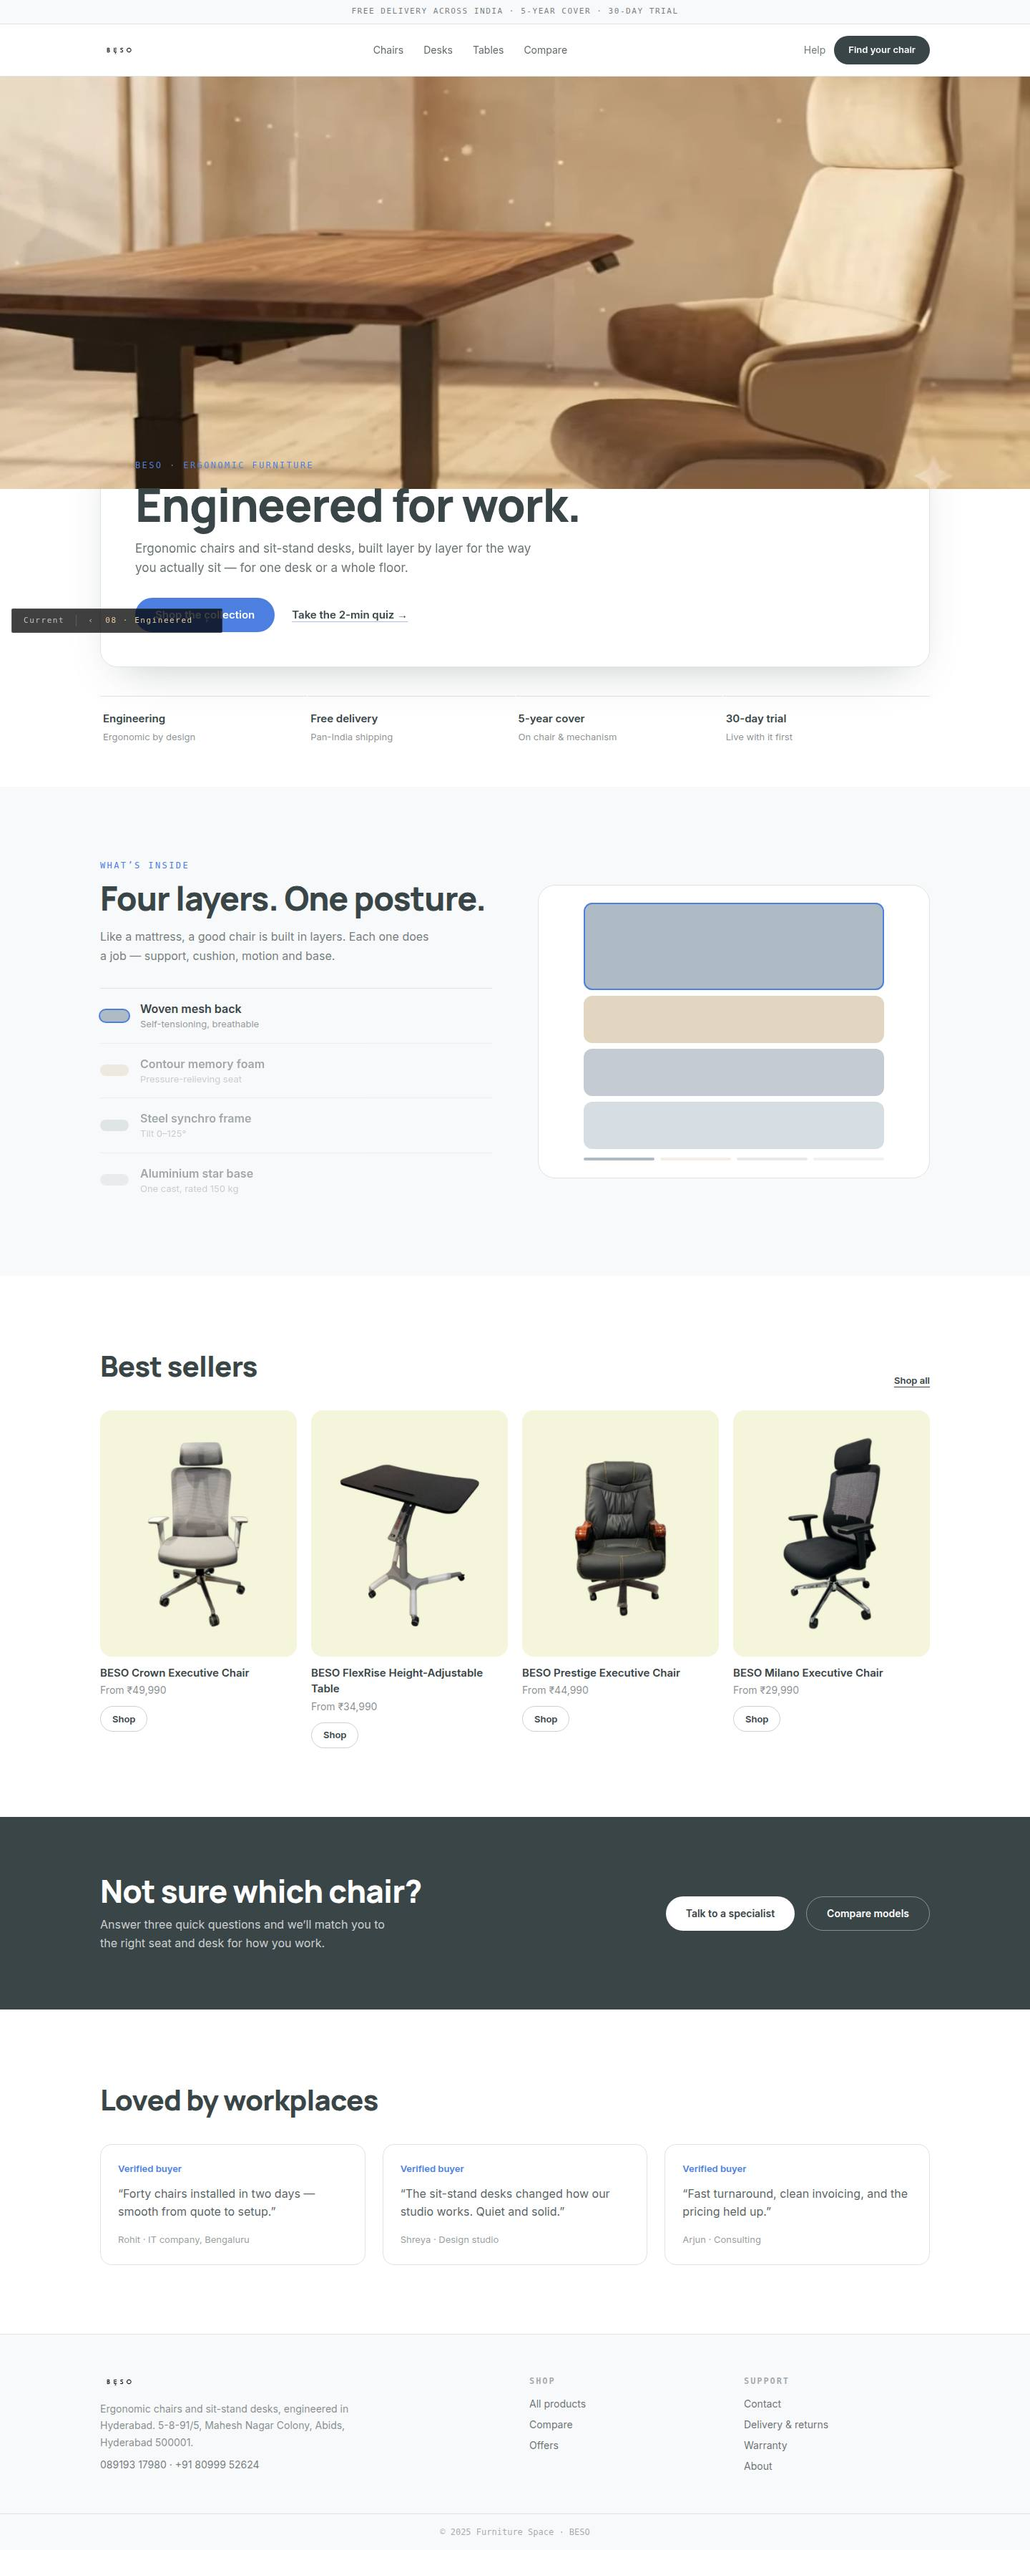
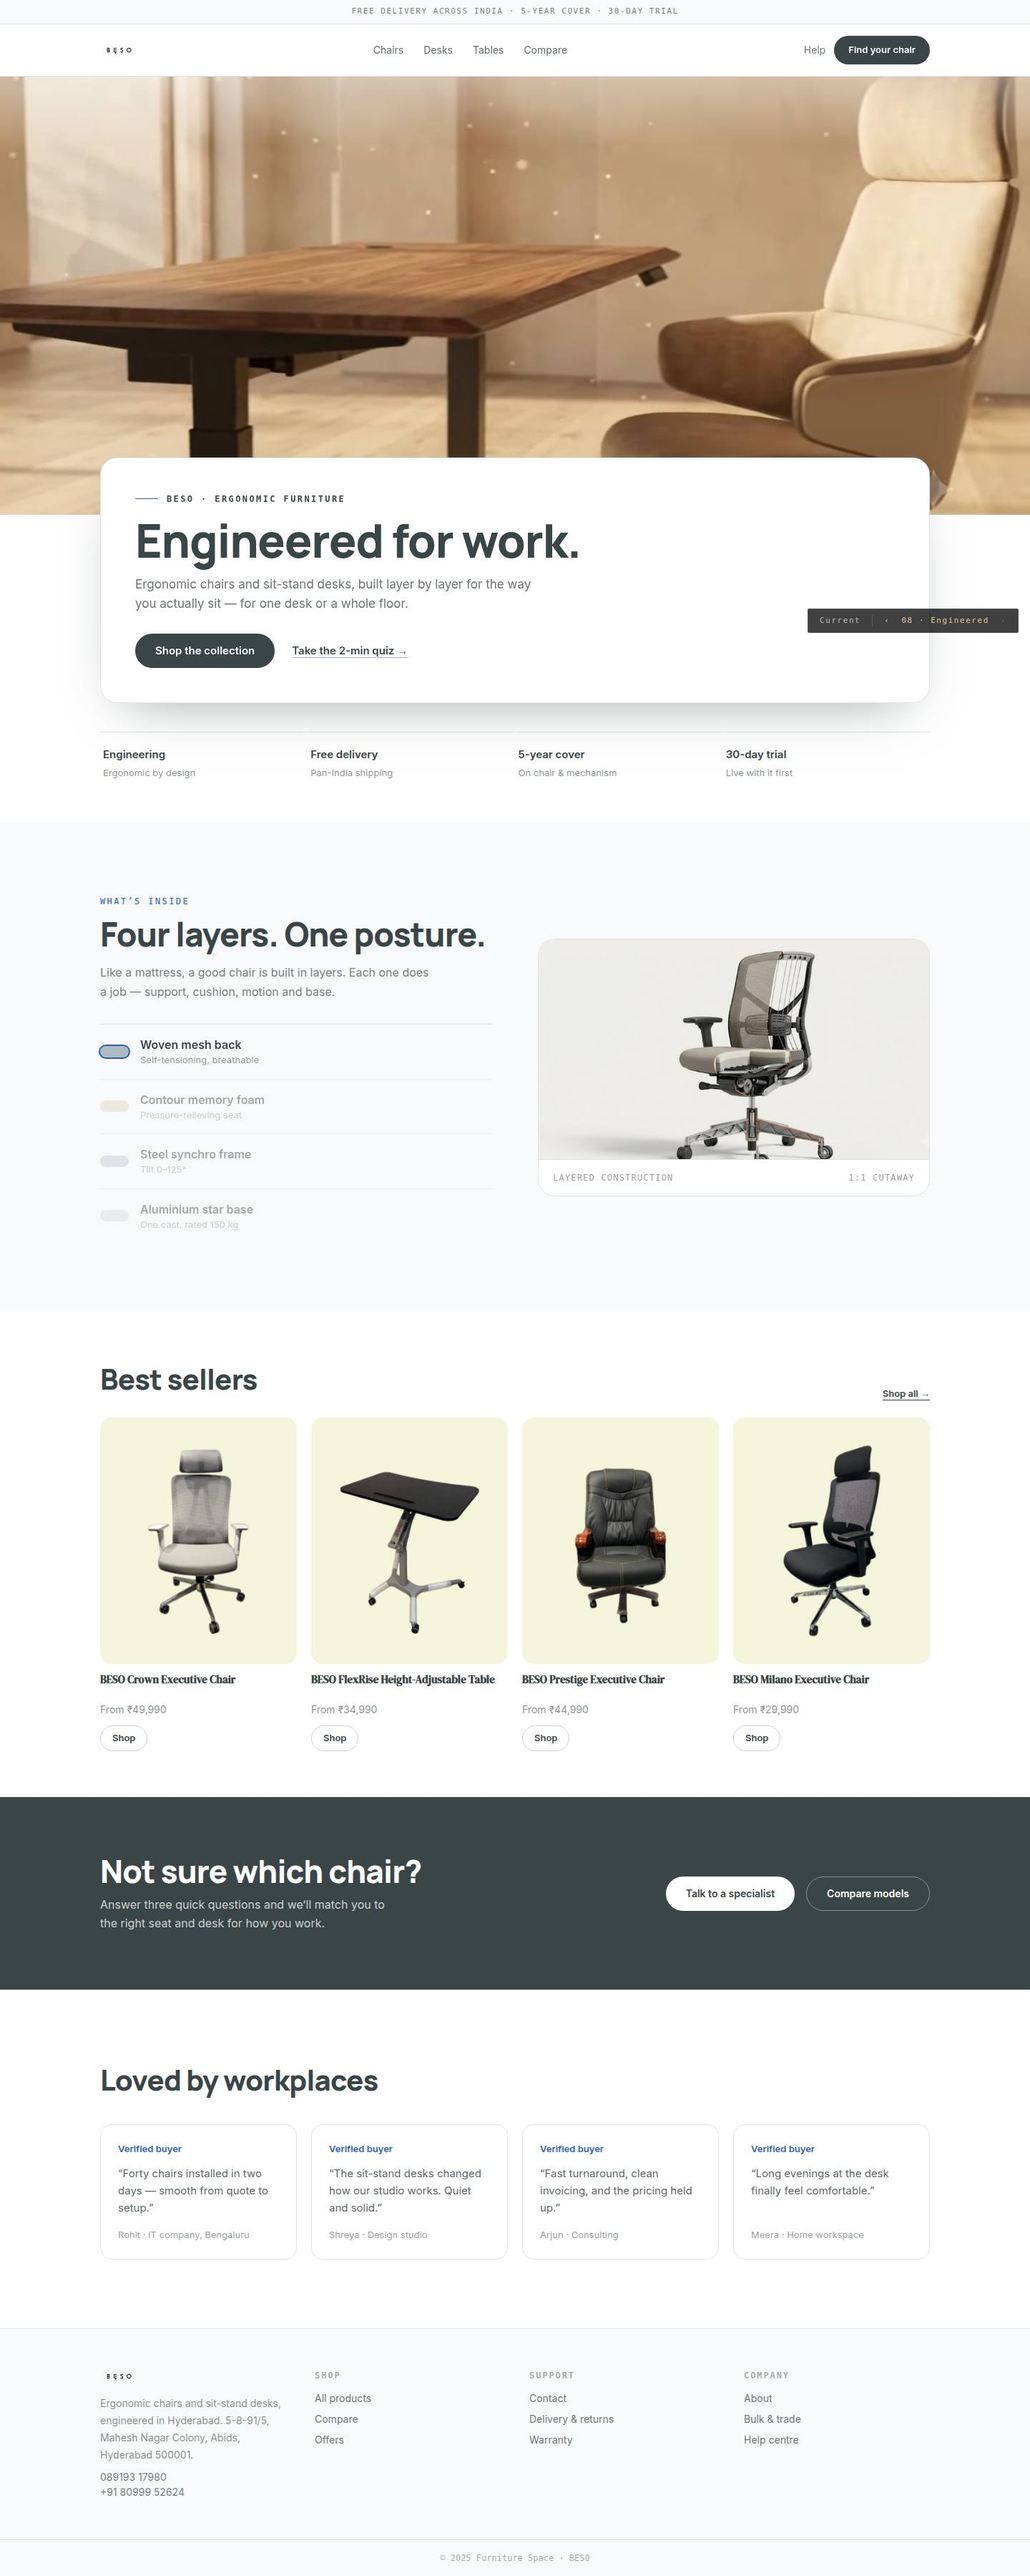
fix(concept/Engineered): major visual bugs from Gemini review
- switcher rail moved to bottom-right (was clipping the hero CTA)
- hero: white scrims over the video + card on a solid white surface; kicker is
  now dark ink on white (contrast fix); CTA darkened to ink
- layered diagram: replaced flat rectangles with a generated cutaway image
  (public/assets/images/engineered/layers.jpg) + caption
- best sellers: fixed card title height, flex column so Shop buttons align
- reviews: 4-col (4 quotes) to fill the container (was orphaned 3-col)
- footer: balanced 4 columns (Brand / Shop / Support / Company)

diff --git a/src/components/designs/d08-engineered/index.tsx b/src/components/designs/d08-engineered/index.tsx
@@ -14,7 +14,7 @@ const BODY = 'Inter, ui-sans-serif, system-ui, -apple-system, sans-serif';
 const MONO = 'ui-monospace, SFMono-Regular, Menlo, monospace';
 const INK = '#394547';
 const BASE = '#FFFFFF';
-const ACCENT = '#4C7FE0';
+const ACCENT = '#2C5FB4';
 const SAND = '#EFEAE1';
 
 type Product = {slug: string; name: string; price: number; image: string; category?: string};
@@ -42,10 +42,12 @@ const reviews = [
   {who: 'Rohit · IT company, Bengaluru', q: 'Forty chairs installed in two days — smooth from quote to setup.'},
   {who: 'Shreya · Design studio', q: 'The sit-stand desks changed how our studio works. Quiet and solid.'},
   {who: 'Arjun · Consulting', q: 'Fast turnaround, clean invoicing, and the pricing held up.'},
+  {who: 'Meera · Home workspace', q: 'Long evenings at the desk finally feel comfortable.'},
 ];
 
 export default function DesignEngineered() {
   const layerRef = useRef<HTMLDivElement | null>(null);
+  const lastIdx = useRef(-1);
   const [active, setActive] = useState(0);
   useEffect(() => {
     let raf = 0, cur = 0, target = 0;
@@ -55,7 +57,12 @@ export default function DesignEngineered() {
       const p = Math.min(0.999, Math.max(0, (vh * 0.8 - r.top) / (vh * 0.9)));
       target = p * layers.length;
     };
-    const loop = () => { cur += (target - cur) * 0.1; if (layerRef.current) setActive(Math.min(layers.length - 1, Math.floor(cur))); raf = requestAnimationFrame(loop); };
+    const loop = () => {
+      cur += (target - cur) * 0.1;
+      const idx = Math.min(layers.length - 1, Math.floor(cur));
+      if (idx !== lastIdx.current) { lastIdx.current = idx; setActive(idx); }
+      raf = requestAnimationFrame(loop);
+    };
     onScroll(); loop();
     window.addEventListener('scroll', onScroll, {passive: true});
     return () => { window.removeEventListener('scroll', onScroll); cancelAnimationFrame(raf); };
@@ -87,18 +94,23 @@ export default function DesignEngineered() {
 
       {/* hero — ultra-wide video */}
       <section className="relative">
-        <video autoPlay muted loop playsInline poster="/assets/videos/hero-bg-ivory-poster.jpg" className="h-[52svh] w-full object-cover lg:h-[64svh]" onError={(e) => { (e.currentTarget.style.display = 'none'); }}>
+        <video autoPlay muted loop playsInline poster="/assets/videos/hero-bg-ivory-poster.jpg" className="h-[56svh] w-full object-cover lg:h-[68svh]">
           <source src="/assets/videos/hero-bg-ivory.webm" type="video/webm" />
           <source src="/assets/videos/hero-bg-ivory.mp4" type="video/mp4" />
         </video>
-        <div className="mx-auto -mt-24 max-w-[1200px] px-5">
-          <div className="rounded-3xl border border-[#DFE3E4] bg-white p-8 shadow-[0_24px_60px_-30px_rgba(57,69,71,0.35)] lg:p-12">
-            <span className="text-[12px] uppercase tracking-[0.2em]" style={{color: ACCENT, fontFamily: MONO}}>BESO · Ergonomic furniture</span>
-            <h1 className="mt-3 max-w-[16ch] text-[clamp(34px,5vw,64px)] font-extrabold leading-[1.02] tracking-[-0.02em]" style={{fontFamily: DISPLAY}}>Engineered for work.</h1>
+        <div className="pointer-events-none absolute inset-x-0 top-0 h-24 bg-gradient-to-b from-white/40 to-transparent" />
+        <div className="pointer-events-none absolute inset-x-0 bottom-0 h-28 bg-gradient-to-t from-white to-transparent" />
+        <div className="mx-auto max-w-[1200px] px-5">
+          <div className="relative -mt-20 rounded-3xl border border-[#DFE3E4] bg-white p-8 shadow-[0_30px_70px_-35px_rgba(57,69,71,0.5)] lg:p-12">
+            <div className="flex items-center gap-3">
+              <span className="h-px w-8" style={{background: ACCENT}} />
+              <span className="text-[12px] font-semibold uppercase tracking-[0.2em] text-[#394547]" style={{fontFamily: MONO}}>BESO · Ergonomic furniture</span>
+            </div>
+            <h1 className="mt-4 max-w-[16ch] text-[clamp(34px,5vw,64px)] font-extrabold leading-[1.02] tracking-[-0.02em]" style={{fontFamily: DISPLAY}}>Engineered for work.</h1>
             <p className="mt-4 max-w-[52ch] text-[17px] leading-[1.6] text-[#394547]/75">Ergonomic chairs and sit-stand desks, built layer by layer for the way you actually sit — for one desk or a whole floor.</p>
             <div className="mt-7 flex flex-wrap items-center gap-6">
-              <Link href="/products" className="inline-flex h-12 items-center rounded-full px-7 text-[15px] font-semibold text-white" style={{background: ACCENT}}>Shop the collection</Link>
-              <a href="https://wa.me/918099952624" target="_blank" rel="noopener noreferrer" className="text-[15px] font-semibold text-[#394547] underline decoration-[#4C7FE0]/50 underline-offset-4 hover:decoration-[#4C7FE0]">Take the 2-min quiz →</a>
+              <Link href="/products" className="inline-flex h-12 items-center rounded-full px-7 text-[15px] font-semibold text-white" style={{background: INK}}>Shop the collection</Link>
+              <a href="https://wa.me/918099952624" target="_blank" rel="noopener noreferrer" className="text-[15px] font-semibold text-[#394547] underline decoration-[#2C5FB4]/50 underline-offset-4 hover:decoration-[#2C5FB4]">Take the 2-min quiz →</a>
             </div>
           </div>
         </div>
@@ -133,34 +145,32 @@ export default function DesignEngineered() {
               ))}
             </ul>
           </div>
-          <div className="overflow-hidden rounded-3xl border border-[#DFE3E4] bg-white p-6">
-            <div className="mx-auto flex max-w-[420px] flex-col gap-2">
-              {layers.map((l, i) => (
-                <div key={l.name} className="rounded-xl transition-all duration-700 ease-[cubic-bezier(0.22,1,0.36,1)]" style={{background: l.color, height: active === i ? 122 : 66, outline: active === i ? `2px solid ${ACCENT}` : '2px solid transparent', outlineOffset: -2}} />
-              ))}
-              <div className="mt-1 grid grid-cols-4 gap-2">
-                {layers.map((l, i) => (<span key={l.name} className="h-1 rounded-full transition-opacity" style={{background: l.color, opacity: active === i ? 1 : 0.4}} />))}
-              </div>
+          <div className="overflow-hidden rounded-3xl border border-[#DFE3E4] bg-white">
+            <img src="/assets/images/engineered/layers.jpg" alt="BESO chair — exploded layer cutaway" className="w-full object-cover" loading="lazy" />
+            <div className="flex flex-wrap items-center justify-between gap-2 border-t border-[#DFE3E4] px-5 py-4 text-[12px] uppercase tracking-[0.1em] text-[#394547]/55" style={{fontFamily: MONO}}>
+              <span>Layered construction</span><span>1:1 cutaway</span>
             </div>
           </div>
         </div>
       </section>
 
       {/* best sellers */}
-      <section className="mx-auto max-w-[1200px] px-5 py-16 lg:py-24">
-        <div className="flex items-end justify-between">
+      <section className="mx-auto max-w-[1200px] px-5 py-12 lg:py-16">
+        <div className="flex items-end justify-between gap-6">
           <h2 className="text-[clamp(26px,3.2vw,40px)] font-extrabold tracking-[-0.02em]" style={{fontFamily: DISPLAY}}>Best sellers</h2>
-          <Link href="/products" className="text-[13px] font-semibold underline underline-offset-4 hover:text-[#4C7FE0]">Shop all</Link>
+          <Link href="/products" className="shrink-0 text-[13px] font-semibold underline underline-offset-4 hover:text-[#2C5FB4]">Shop all →</Link>
         </div>
-        <div className="mt-8 grid grid-cols-2 gap-5 md:grid-cols-4">
+        <div className="mt-6 grid grid-cols-2 gap-x-5 gap-y-8 md:grid-cols-4">
           {bestsellers.map((p) => (
-            <Link key={p.slug} href={`/products/${p.slug}`} className="group block">
+            <Link key={p.slug} href={`/products/${p.slug}`} className="group flex flex-col">
               <div className="overflow-hidden rounded-2xl bg-[#F5F5DB]">
                 <img src={pimg(p)} alt={p.name} loading="lazy" className="aspect-[4/5] w-full object-cover transition-transform duration-700 group-hover:scale-[1.04]" />
               </div>
-              <div className="mt-3 text-[15px] font-semibold">{p.name}</div>
-              <div className="mt-0.5 text-[14px] text-[#394547]/60">From {money(p.price)}</div>
-              <span className="mt-3 inline-flex h-9 items-center rounded-full border border-[#394547]/25 px-4 text-[13px] font-semibold transition-colors group-hover:bg-[#394547] group-hover:text-white">Shop</span>
+              <div className="mt-3 flex flex-1 flex-col">
+                <h3 className="min-h-[2.6em] text-[15px] font-semibold leading-snug">{p.name}</h3>
+                <div className="mt-0.5 text-[14px] text-[#394547]/60">From {money(p.price)}</div>
+                <span className="mt-3 inline-flex h-9 items-center self-start rounded-full border border-[#394547]/25 px-4 text-[13px] font-semibold transition-colors group-hover:bg-[#394547] group-hover:text-white">Shop</span>
+              </div>
             </Link>
           ))}
         </div>
@@ -183,11 +193,11 @@ export default function DesignEngineered() {
       {/* reviews */}
       <section className="mx-auto max-w-[1200px] px-5 py-16 lg:py-24">
         <h2 className="text-[clamp(26px,3.2vw,40px)] font-extrabold tracking-[-0.02em]" style={{fontFamily: DISPLAY}}>Loved by workplaces</h2>
-        <div className="mt-8 grid gap-6 md:grid-cols-3">
+        <div className="mt-8 grid gap-5 sm:grid-cols-2 lg:grid-cols-4">
           {reviews.map((r) => (
-            <figure key={r.who} className="rounded-2xl border border-[#DFE3E4] p-6">
+            <figure key={r.who} className="flex flex-col rounded-2xl border border-[#DFE3E4] p-6">
               <div className="text-[13px] font-semibold" style={{color: ACCENT}}>Verified buyer</div>
-              <blockquote className="mt-3 text-[16px] leading-[1.6] text-[#394547]/85">&ldquo;{r.q}&rdquo;</blockquote>
+              <blockquote className="mt-3 flex-1 text-[15px] leading-[1.6] text-[#394547]/85">&ldquo;{r.q}&rdquo;</blockquote>
               <figcaption className="mt-4 text-[13px] text-[#394547]/55">{r.who}</figcaption>
             </figure>
           ))}
@@ -196,11 +206,11 @@ export default function DesignEngineered() {
 
       {/* footer */}
       <footer className="border-t border-[#DFE3E4] bg-[#F7F9FA]">
-        <div className="mx-auto grid max-w-[1200px] gap-10 px-5 py-14 lg:grid-cols-4">
-          <div className="lg:col-span-2 lg:max-w-sm">
+        <div className="mx-auto grid max-w-[1200px] gap-10 px-5 py-14 sm:grid-cols-2 lg:grid-cols-4">
+          <div className="lg:max-w-xs">
             <img src="/assets/images/beso-logo-transparent.png" alt="BESO" className="h-5 w-auto" style={{filter: 'brightness(0)'}} />
             <p className="mt-4 text-[14px] leading-[1.7] text-[#394547]/60">Ergonomic chairs and sit-stand desks, engineered in Hyderabad. 5-8-91/5, Mahesh Nagar Colony, Abids, Hyderabad 500001.</p>
-            <p className="mt-2 text-[14px] text-[#394547]/70"><a href="tel:+918919317980" className="hover:text-[#394547]">089193 17980</a> · <a href="https://wa.me/918099952624" target="_blank" rel="noopener noreferrer" className="hover:text-[#394547]">+91 80999 52624</a></p>
+            <p className="mt-2 text-[14px] text-[#394547]/70"><a href="tel:+918919317980" className="hover:text-[#394547]">089193 17980</a><br /><a href="https://wa.me/918099952624" target="_blank" rel="noopener noreferrer" className="hover:text-[#394547]">+91 80999 52624</a></p>
           </div>
           <div className="text-[14px]">
             <div className="text-[12px] font-semibold uppercase tracking-[0.16em] text-[#394547]/45" style={{fontFamily: MONO}}>Shop</div>
@@ -216,7 +226,14 @@ export default function DesignEngineered() {
               <li><Link href="/contact" className="hover:text-[#394547]">Contact</Link></li>
               <li><Link href="/contact" className="hover:text-[#394547]">Delivery &amp; returns</Link></li>
               <li><Link href="/contact" className="hover:text-[#394547]">Warranty</Link></li>
+            </ul>
+          </div>
+          <div className="text-[14px]">
+            <div className="text-[12px] font-semibold uppercase tracking-[0.16em] text-[#394547]/45" style={{fontFamily: MONO}}>Company</div>
+            <ul className="mt-3 space-y-2 text-[#394547]/75">
               <li><Link href="/about" className="hover:text-[#394547]">About</Link></li>
+              <li><a href="https://wa.me/918099952624?text=Hi%20BESO!%20I%27d%20like%20a%20trade%20quote." target="_blank" rel="noopener noreferrer" className="hover:text-[#394547]">Bulk &amp; trade</a></li>
+              <li><Link href="/contact" className="hover:text-[#394547]">Help centre</Link></li>
             </ul>
           </div>
         </div>

diff --git a/src/components/designs/DesignSwitcher.tsx b/src/components/designs/DesignSwitcher.tsx
@@ -36,7 +36,7 @@ export function DesignSwitcher({current, total, name, go}: Props) {
   const btn = 'px-2 py-1 transition-colors hover:text-white disabled:opacity-30 disabled:hover:text-[#F6F1E7]/70';
 
   return (
-    <div className="fixed bottom-4 left-4 z-[80] print:hidden" style={{fontFamily: 'ui-monospace, SFMono-Regular, Menlo, monospace'}}>
+    <div className="fixed bottom-4 right-4 z-[80] print:hidden" style={{fontFamily: 'ui-monospace, SFMono-Regular, Menlo, monospace'}}>
       <div className="relative flex items-center gap-1 rounded-sm border border-white/10 bg-black/75 px-2 py-1 text-[11px] uppercase tracking-[0.14em] text-[#F6F1E7]/70">
         <button onClick={() => go(0)} aria-current={current === 0} className={`${btn} ${current === 0 ? 'text-white' : ''}`}>
           Current
@@ -49,7 +49,7 @@ export function DesignSwitcher({current, total, name, go}: Props) {
         <button onClick={() => go(Math.min(total, current + 1))} disabled={current >= total} aria-label="Next design" className={btn}>›</button>
 
         {open && (
-          <div className="absolute bottom-full left-0 mb-2 w-[260px] rounded-md border border-white/10 bg-black/90 p-1.5">
+          <div className="absolute bottom-full right-0 mb-2 w-[260px] rounded-md border border-white/10 bg-black/90 p-1.5">
             <button
               onClick={() => { go(0); setOpen(false); }}
               className={`flex w-full items-center justify-between rounded px-3 py-2 text-left transition-colors ${current === 0 ? 'bg-white/10' : 'hover:bg-white/5'}`}
